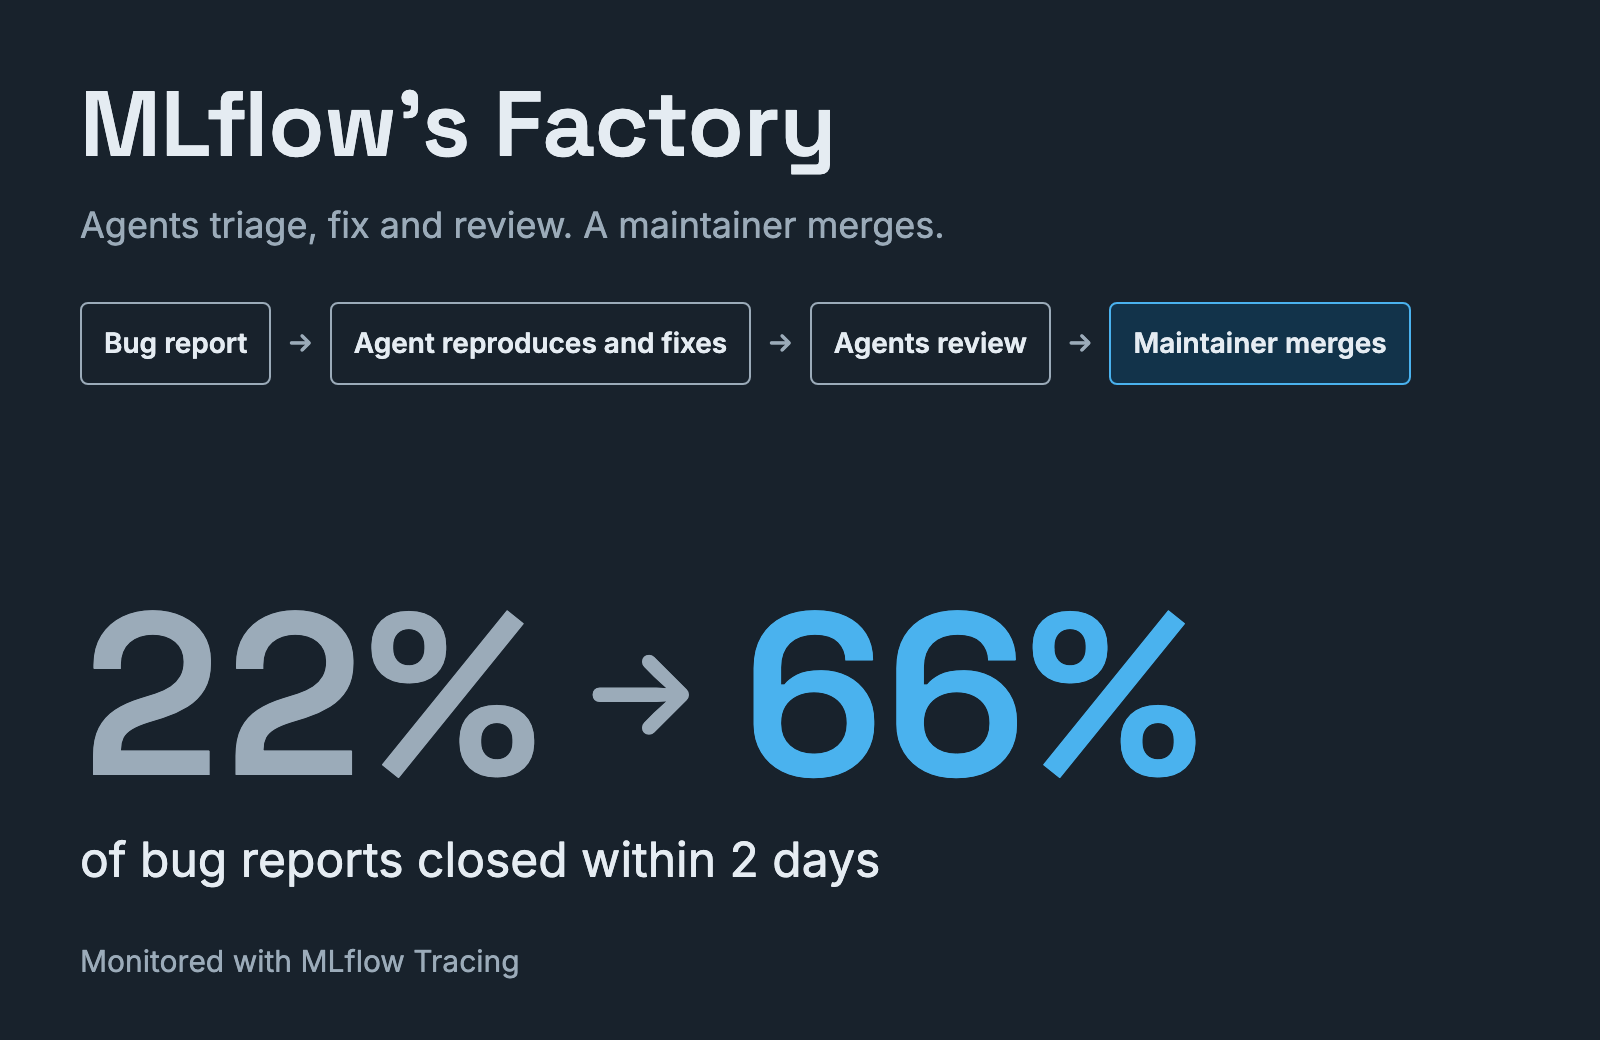
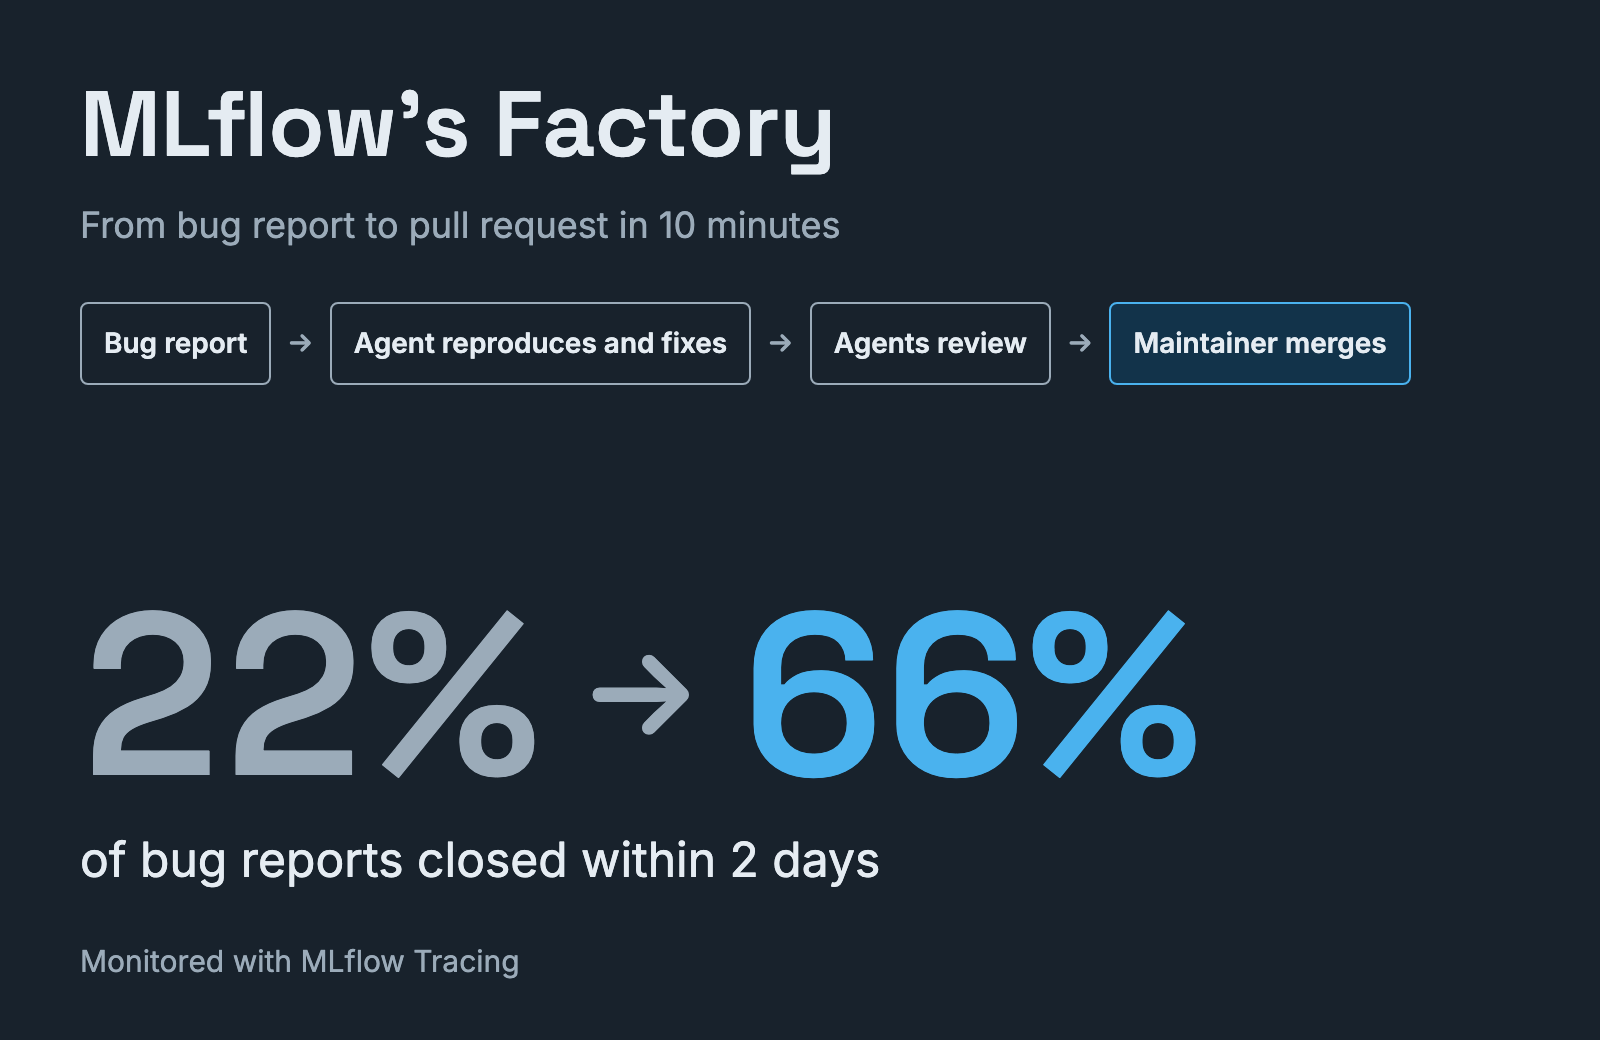
Retitle the factory post

Changed region(s): [[0.0625, 0.1846, 0.5938, 0.2462]]

diff --git a/website/blog/2026-11-20-mlflow-factory/index.md b/website/blog/2026-11-20-mlflow-factory/index.md
@@ -1,5 +1,5 @@
 ---
-title: "MLflow's Factory: How Agents Triage, Fix and Review"
+title: "From Bug Report to Pull Request in 10 Minutes: How We Built and Monitor MLflow's Factory"
 description: "We walk you through how MLflow turns a bug report into a reviewed pull request in about ten minutes: the agents, the sandbox that keeps them from writing anything, and how we monitor every run with MLflow Tracing."
 slug: mlflow-factory
 authors: [mlflow-maintainers]
